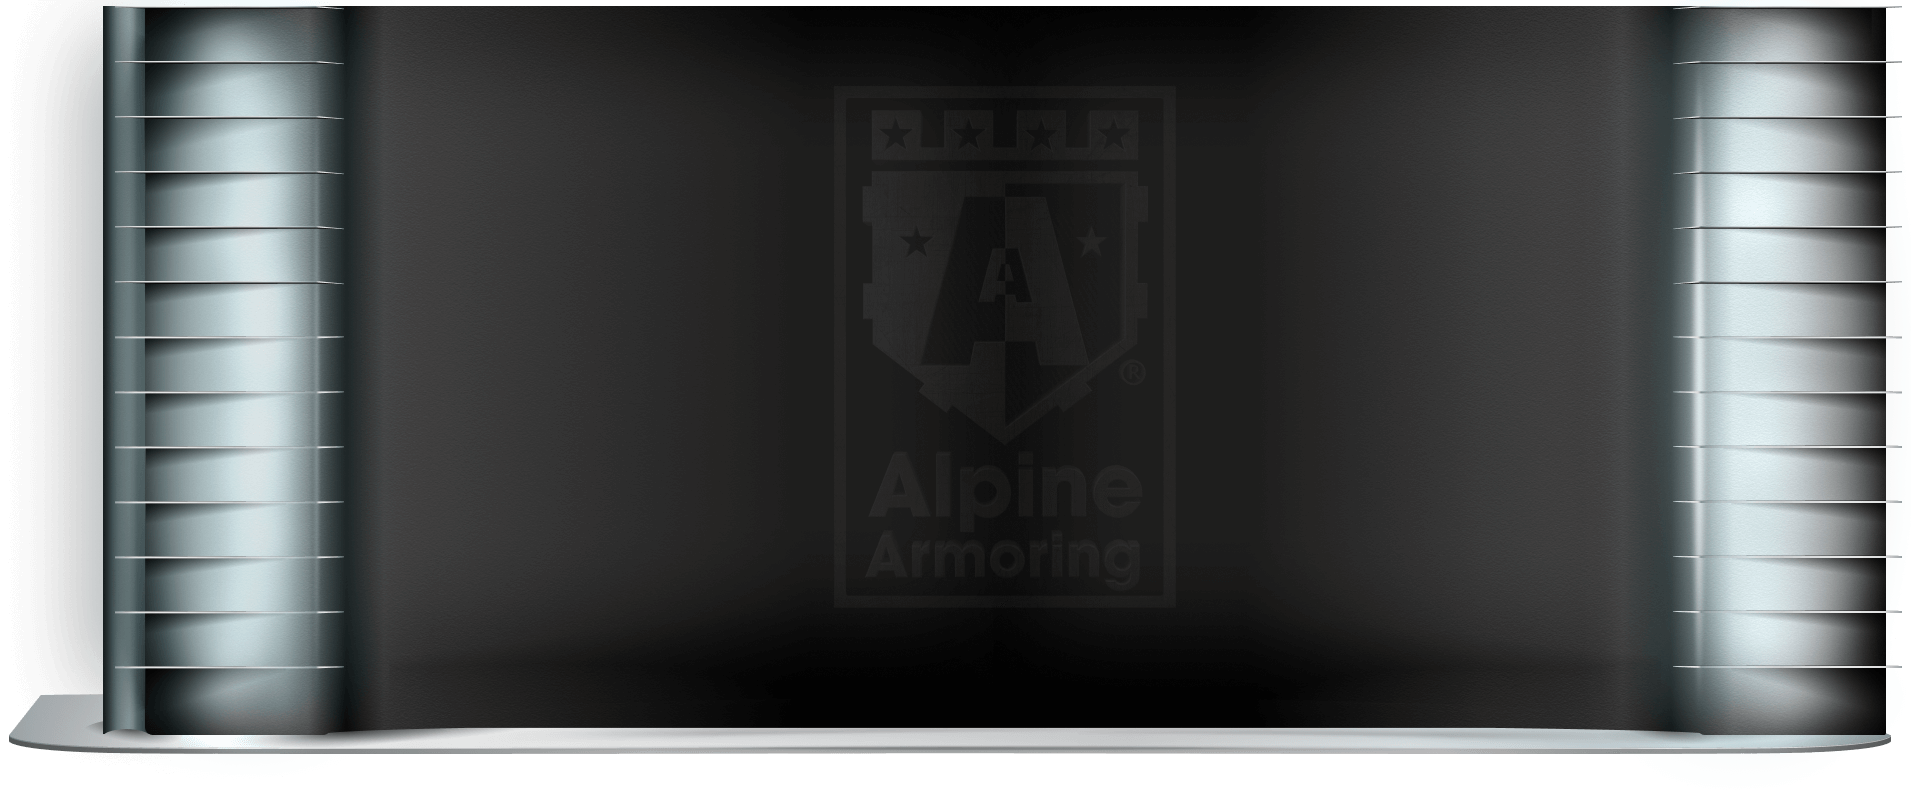
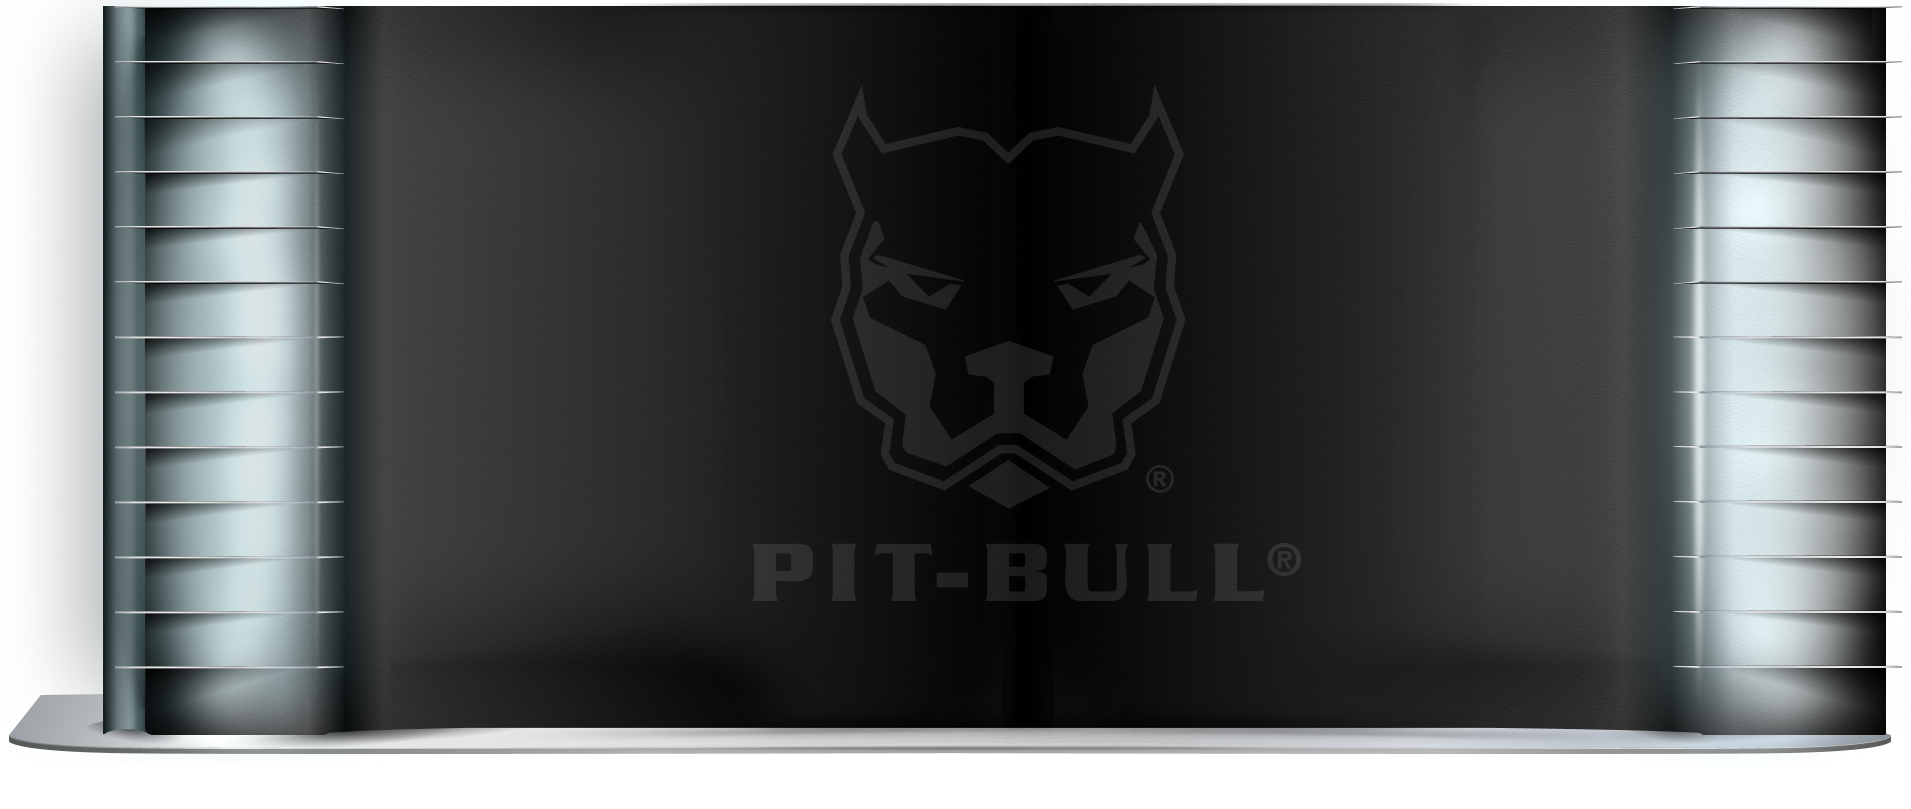
ballistic chart

diff --git a/components/ballistic-chart/BallisticChart.module.scss b/components/ballistic-chart/BallisticChart.module.scss
@@ -144,8 +144,8 @@
       &:first-child {
         @include breakpoint(untilLarge) {
           order: 0;
-          left: 150px;
-          top: 25px;
+          left: 190px;
+          top: 16px;
         }
 
         @include breakpoint(large) {
@@ -165,7 +165,7 @@
 
       &:nth-child(2) {
         @include breakpoint(untilLarge) {
-          left: -37px;
+          left: -18px;
         }
 
         @include breakpoint(large) {
@@ -187,7 +187,7 @@
       &:nth-child(3) {
         @include breakpoint(untilLarge) {
           order: 1;
-          left: 10px;
+          left: 63px;
         }
 
         @include breakpoint(large) {
@@ -210,7 +210,7 @@
 
       &:nth-child(4) {
         @include breakpoint(untilLarge) {
-          left: -50px;
+          left: -64px;
         }
 
         @include breakpoint(large) {
@@ -230,8 +230,12 @@
       }
       &:nth-child(5) {
         @include breakpoint(untilLarge) {
-          left: -32px;
+          left: -100px;
           top: 12px;
+          
+          img{
+            max-width: 50px;
+          }
         }
         @include breakpoint(large) {
           left: -5vw;
@@ -256,6 +260,10 @@
     flex-wrap: wrap;
     margin-top: -28px;
 
+    @include breakpoint(untilLarge) {
+      position: relative;
+      bottom: 4px;
+    }
     @include breakpoint(large) {
       margin-top: -2.344vw;
     }
@@ -372,7 +380,8 @@
           text-shadow: none;
           order: 0;
           font-size: 19px;
-          left: 18px;
+          left: 35px;
+          margin-left: -27px;
         }
 
         @include breakpoint(large) {
@@ -1818,6 +1827,7 @@
       text-transform: uppercase;
       text-align: center;
       line-height: 44px;
+      font-weight: var(--font-weight-bold);
 
       &:before {
         position: absolute;

diff --git a/components/ballistic-chart/BallisticChartChosen.tsx b/components/ballistic-chart/BallisticChartChosen.tsx
@@ -7,7 +7,7 @@ const BallisticChartChosen = ({ items, onClose }) => {
       <div className={`${styles.ballistic_chosen_inner}`}>
         <div className={`${styles.ballistic_chosen_heading}`}>
           <h2>Comparison</h2>
-          <p>(Alpine’s Levels vs. Others)</p>
+          <p>(Pit-Bull® Levels vs. Others)</p>
           <button
             className={`${styles.ballistic_chosen_close}`}
             onClick={onClose}

diff --git a/components/ballistic-chart/BallisticChartChosen.module.scss b/components/ballistic-chart/BallisticChartChosen.module.scss
@@ -108,7 +108,7 @@
       &_logo {
         position: absolute;
         width: 60px;
-        height: 90px;
+        height: 71px;
         left: 0;
         top: 0;
         right: 0;
@@ -249,6 +249,7 @@
         letter-spacing: 0.3px;
         line-height: 10px;
         padding: 0;
+        font-weight: var(--font-weight-bold);
 
         img {
           height: 50%;

diff --git a/components/ballistic-chart/BallisticChart.tsx b/components/ballistic-chart/BallisticChart.tsx
@@ -365,8 +365,8 @@ const BallisticChart = () => {
       <HeaderItem
         src="ballistic_logo"
         alt="Pit-Bull®"
-        mobileWidth={132}
-        mobileHeight={47}
+        mobileWidth={50}
+        mobileHeight={60}
         desktopWidth={80}
         desktopHeight={122}
         styles={styles}
